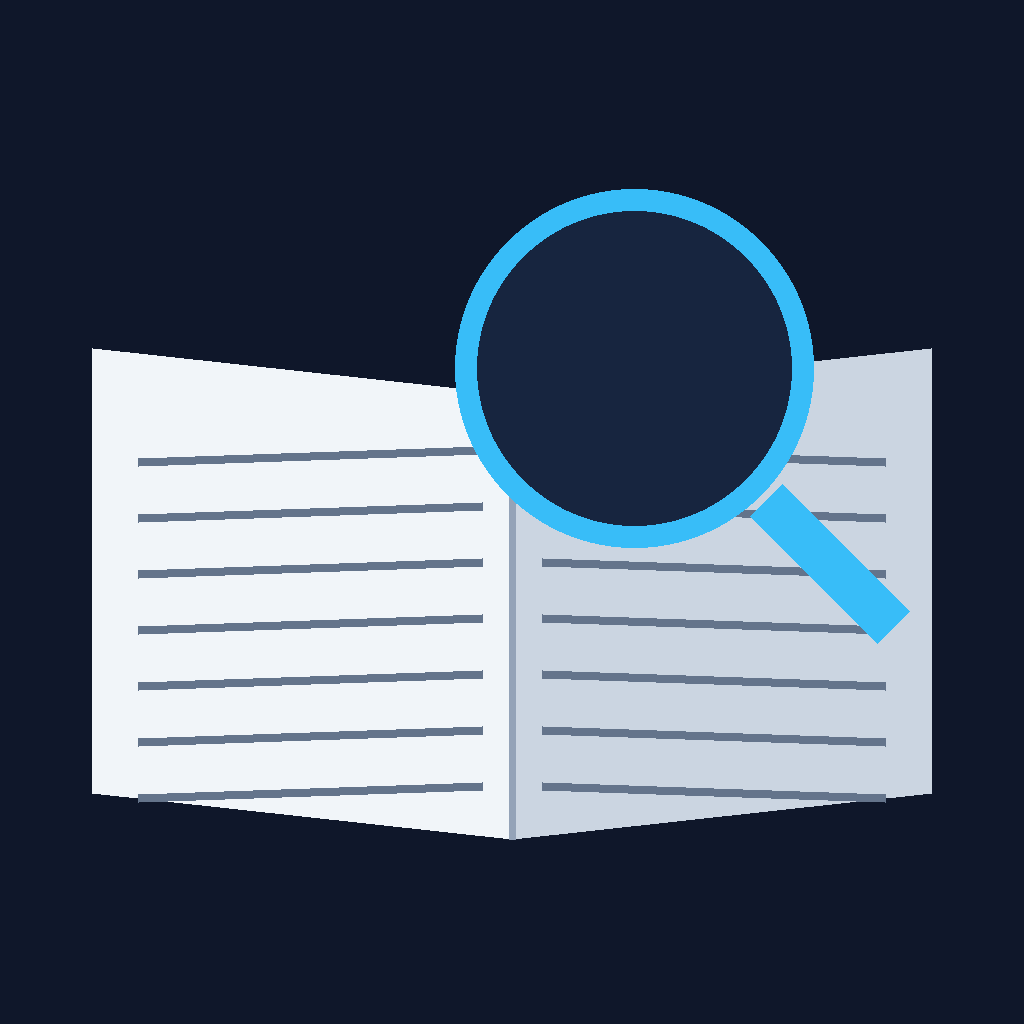
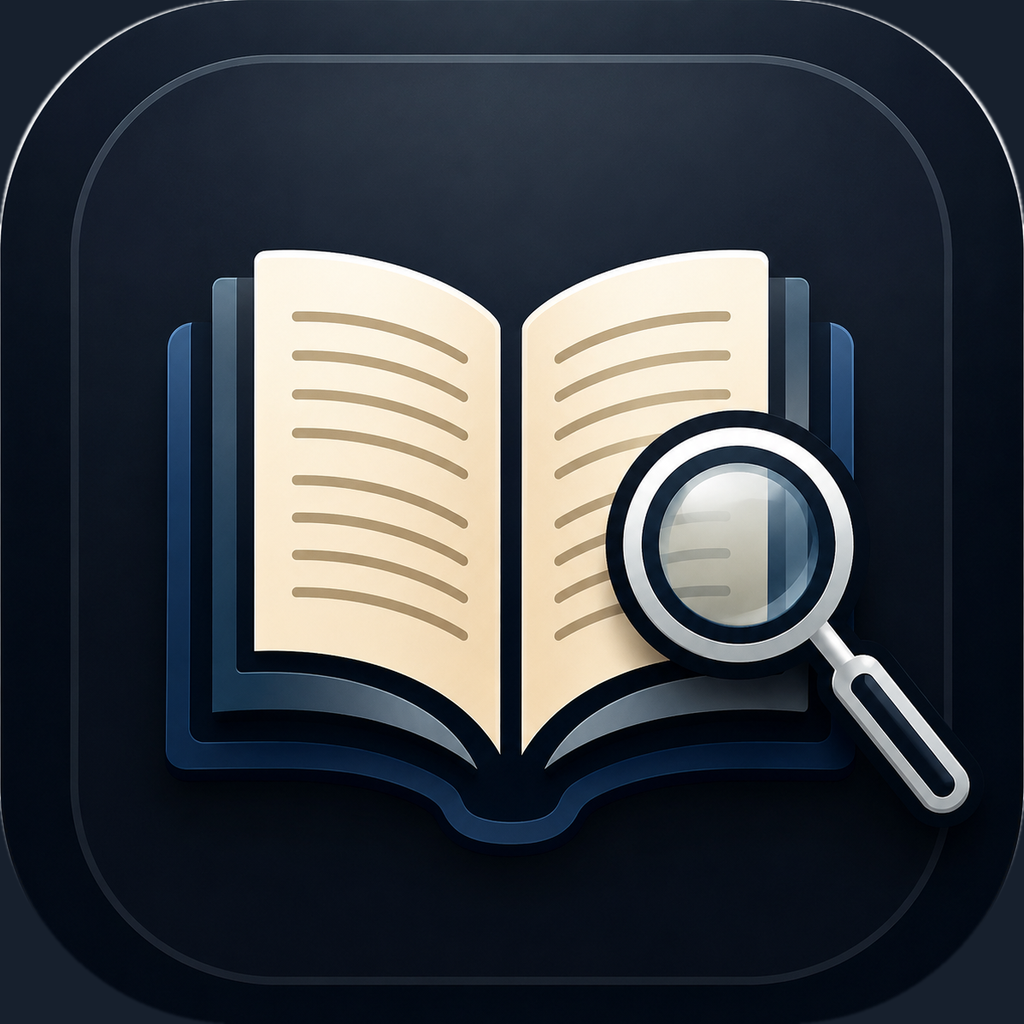
digital-shosai: アイコンをオーナー支給の画像に差し替え、1.0.1/build2 を Archive
- icon-src/source_2026-08-27.png（原本1254×1254）を追加
- make_icon.py を「図案を描く」→「支給画像を整える」に書き換え。
  支給画像は白背景に角丸アイコンが乗った形で、そのまま渡すと iOS の
  角丸マスクで角が白く欠ける。本体を切り出し→1024へ→角の外を地色で塗る
- ios の AppIcon-512@2x.png を差し替え（ios/ は gitignore のため未追跡）
- MARKETING_VERSION 1.0.1 / CURRENT_PROJECT_VERSION 2
- 1.0 が配信中になっていたので CLAUDE.md・TODO.md を修正（photo-remake 1.1.0 も同様）

アップロードと審査提出はオーナーが Organizer で手動。

Claude-Session: https://claude.ai/code/session_01K2nsdTZWvWEin3v4CwFyAz

diff --git a/digital-shosai/icon-src/make_icon.py b/digital-shosai/icon-src/make_icon.py
@@ -3,65 +3,60 @@
 
     ../../agent-platform/.venv/bin/python make_icon.py
 
-App Store のアイコンは**透明を含められない**ので、背景を必ず塗る。
-角丸は iOS が自動で付けるため、こちらでは四角のまま出す。
-図案: 開いた本＋そこから立ち上がる検索の光（本文を検索する道具、という意味）。
-色はアプリ本体の画面と揃える（濃紺 #0f172a ／ 空色 #38bdf8）。
+2026-08-27 にオーナー支給の画像（`source_2026-08-27.png`）へ差し替えた。
+それ以前は PIL で図案を描いていた（開いた本＋空色の虫めがね）。旧版のコードは
+git 履歴にある（`git log -p icon-src/make_icon.py`）。
+
+支給画像の扱い（ここを外すとホーム画面で角が白く欠ける）
+----------------------------------------------------------
+支給画像は **白背景の上に角丸の正方形アイコンが乗った状態**（1254×1254・周囲に白い余白）。
+iOS は自分で角丸マスクを掛けるので、**アイコンは角まで塗った四角**で渡さなければならない。
+そのため次の順で整える。
+
+1. 角丸正方形の本体だけを切り出す（白余白と落ち影を落とす）
+2. 1024×1024 に縮める
+3. **角丸の外側（＝白が残る部分）をアイコンの地色で塗り潰す**
+   iOS のマスク半径（1024 なら約 229px）よりわずかに大きい半径で塗るので、
+   マスク後に地色が見えるのは輪郭のごく細い部分だけ
+
+App Store のアイコンは**透明を含められない**ので、必ず RGB（アルファ無し）で保存する。
 """
-from PIL import Image, ImageDraw
+from PIL import Image, ImageDraw, ImageFilter
+import numpy as np
 
+SRC = "source_2026-08-27.png"
 S = 1024
-BG = (15, 23, 42)        # slate-900：本体画面と同じ濃紺
-PAGE = (241, 245, 249)   # slate-100：紙
-PAGE_SHADE = (203, 213, 225)
-ACCENT = (56, 189, 248)  # sky-400：検索・アクセント
-LINE = (100, 116, 139)   # slate-500：本文の行
+CORNER_RADIUS = 239   # 支給画像の角丸を 1024 に換算した値（iOS の約229より少し大きい）
 
-img = Image.new("RGB", (S, S), BG)
-d = ImageDraw.Draw(img)
+img = Image.open(SRC).convert("RGB")
 
-# 開いた本（左右のページ）。中央でわずかに山を作る
-# 余白を詰めて中央に大きく置く（iOSのアイコンは画面いっぱいに使うのが定石）
-cx, top, bottom = S // 2, int(S * 0.34), int(S * 0.82)
-left, right = int(S * 0.09), int(S * 0.91)
-spine_lift = int(S * 0.045)
+# --- 1. 角丸正方形の本体だけを切り出す -------------------------------------
+# 白でない（＝暗い）画素が縦横に長く連なる範囲を本体とみなす。
+# しきい値の 600 は「1254px の半分近く連なっていれば本体の辺」という意味で、
+# 落ち影のような薄く短い帯を拾わないために置いている。
+arr = np.asarray(img).astype(int)
+dark = arr.mean(axis=2) < 200
+cols = np.where(dark.sum(axis=0) > 600)[0]
+rows = np.where(dark.sum(axis=1) > 600)[0]
+x0, x1 = int(cols.min()), int(cols.max())
+y0, y1 = int(rows.min()), int(rows.max())
+# 落ち影のぶん縦横がわずかにずれるので、短い方の辺に合わせて正方形にする
+side = min(x1 - x0 + 1, y1 - y0 + 1)
+body = img.crop((x0, y0, x0 + side, y0 + side)).resize((S, S), Image.LANCZOS)
 
-for sign, x_out in ((-1, left), (1, right)):
-    d.polygon(
-        [
-            (cx, top + spine_lift),
-            (x_out, top),
-            (x_out, bottom - spine_lift),
-            (cx, bottom),
-        ],
-        fill=PAGE if sign < 0 else PAGE_SHADE,
-    )
+# --- 2. 角の外側をアイコンの地色で塗る --------------------------------------
+# 地色は「辺の内側 40px の帯」の中央値（濃紺）。角の白は帯に入らないので混ざらない。
+b = np.asarray(body).astype(int)
+band = np.concatenate([b[40:80, :, :].reshape(-1, 3), b[-80:-40, :, :].reshape(-1, 3)])
+bg = tuple(int(v) for v in np.median(band, axis=0))
 
-# 本文の行（左ページに数本、右ページに数本）
-for i in range(7):
-    y = top + spine_lift + int(S * 0.055) * (i + 1)
-    d.line([(left + int(S * 0.045), y + int(S * 0.012)), (cx - int(S * 0.03), y)], fill=LINE, width=9)
-    d.line([(cx + int(S * 0.03), y), (right - int(S * 0.045), y + int(S * 0.012))], fill=LINE, width=9)
+mask = Image.new("L", (S, S), 0)
+ImageDraw.Draw(mask).rounded_rectangle([0, 0, S - 1, S - 1], radius=CORNER_RADIUS, fill=255)
+mask = mask.filter(ImageFilter.GaussianBlur(1.2))   # 角のジャギを消す
+icon = Image.composite(body, Image.new("RGB", (S, S), bg), mask)
 
-# 綴じ目
-d.line([(cx, top + spine_lift), (cx, bottom)], fill=(148, 163, 184), width=7)
-
-# 検索の光（虫めがね）を本の上に重ねる
-r = int(S * 0.175)
-gx, gy = int(S * 0.62), int(S * 0.36)
-d.ellipse([gx - r, gy - r, gx + r, gy + r], outline=ACCENT, width=int(S * 0.035))
-d.line(
-    [(gx + int(r * 0.74), gy + int(r * 0.74)), (gx + int(r * 1.45), gy + int(r * 1.45))],
-    fill=ACCENT,
-    width=int(S * 0.045),
-)
-# 虫めがねの中だけ本文を透かす（ガラスの内側を少し明るくする）
-d.ellipse([gx - r + 22, gy - r + 22, gx + r - 22, gy + r - 22], fill=(23, 37, 63))
-
-img.save("icon_1024.png")
-
-# iOS 用の各サイズ（Xcode は 1024 だけでも良いが、確認用に主要サイズも出す）
+icon.save("icon_1024.png")
 for size in (180, 152, 120, 76, 60):
-    img.resize((size, size), Image.LANCZOS).save(f"icon_{size}.png")
+    icon.resize((size, size), Image.LANCZOS).save(f"icon_{size}.png")
 
-print("icon_1024.png ほかを書き出した")
+print(f"icon_1024.png ほかを書き出した（地色 {bg} ・切り出し {side}px 四方）")

diff --git a/TODO.md b/TODO.md
@@ -1453,7 +1453,7 @@
 
 | アプリ | 担当PC | いまの状態 / 次にやること | 最終更新 |
 |---|---|---|---|
-| photo-remake | **メイン** | **フォトリメイク（iOS）1.1.0 / build 4 の提出待ち。実装はサブPCで完了・push済み。** 図形注釈を新設し矢印もその中へ統合（全13種＝矢印/四角/角丸/丸/三角/ひし形/五角形/六角形/星/ハート/吹き出し/十字/バツ）。塗りの色と枠線の色は別々に指定でき、それぞれ「なし」にできる。「種類」タブで矢印⇄図形を入れ替え可（中点・長さ・向きを引き継ぎ Undo 可）。上部「写真」ボタンは編集内容があるときだけ確認ダイアログ。Debug/Release ともビルド通過、シミュレータで画面と書き出しPNGを目視確認済み（**実機は未確認**）。配信中は 1.0.2/build3・審査中なし（2026-08-25 API 確認）。**メインPCでやること＝実機で触る→Archive→提出の3つだけ。手順は `photo-remake/RELEASE.md`**（新機能の文案も入れてある）。※`xcodegen generate` は実行しない（Signing の Team 選択が消える） | 2026-08-25 |
+| photo-remake | **メイン** | **2026-08-27: 1.1.0 / build 4 は審査を通って配信中**（`appstore_api.py --review` で実測。下の「提出待ち」は解消済み。残るのは実機で触ること）。**フォトリメイク（iOS）1.1.0 / build 4 の提出待ち。実装はサブPCで完了・push済み。** 図形注釈を新設し矢印もその中へ統合（全13種＝矢印/四角/角丸/丸/三角/ひし形/五角形/六角形/星/ハート/吹き出し/十字/バツ）。塗りの色と枠線の色は別々に指定でき、それぞれ「なし」にできる。「種類」タブで矢印⇄図形を入れ替え可（中点・長さ・向きを引き継ぎ Undo 可）。上部「写真」ボタンは編集内容があるときだけ確認ダイアログ。Debug/Release ともビルド通過、シミュレータで画面と書き出しPNGを目視確認済み（**実機は未確認**）。配信中は 1.0.2/build3・審査中なし（2026-08-25 API 確認）。**メインPCでやること＝実機で触る→Archive→提出の3つだけ。手順は `photo-remake/RELEASE.md`**（新機能の文案も入れてある）。※`xcodegen generate` は実行しない（Signing の Team 選択が消える） | 2026-08-25 |
 | onepiece-dex | サブ | **ワンピースカード図鑑（新規・8537・127.0.0.1）**。**2026-08-23: 立ち上げから動作確認まで完了。** 公式サイト（onepiece-cardgame.com）1本で カード4,962枚／62シリーズ／画像100%（1.2GB）。`check_dex.py` の点検は全項目0件。画面は **拡張パック23件／構築デッキ37件／その他2件**に分けた4タブ（さがす・拡張パック・構築デッキ/その他・リーダー）。パッケージ画像・発売日・価格は公式の商品ラインナップ156件から。`./va.sh` で目視・Consoleエラー0件まで確認済み。**スーパーパラレル系のレアリティ51枚を追加済み**（スーパーパラレル44/レッド3/海賊団2/ゴールド1/リーダー1）。公式が区分を持たないので tier-one-onepiece.jp の一覧＋画像照合で補完（`data/super_parallel.json`）。OP-18の2枚は公式カードリスト未掲載のため未反映。**相場は未着手**（`dex.price` 列は空で用意済み。マイカのIDはゲーム横断で全ID巡回が要る）。**launchd未登録**（サブPCは都度起動）。画像の「SAMPLE」透かしは公式・マイカとも入っており消せない。**2026-08-24(メイン): PSAカード管理(8527)の中からも開けるようにした**（実体は移していない・8537 単独起動もそのまま。`album_ui` 差し込み口＋`card_no_label()`＋session_stateを `op_` で名前空間化）。**同日: メインPCでスーパーパラレル51枚が丸ごと抜けていたのを復旧**（原因は `setup.sh` が画像取得より前に `fill_super_parallel.py` を置いていて照合が全外れ→0件で正常終了。工程順を直し件数チェックを追加。加えて `@st.cache_data` の鍵が `_stamp` で効かず再起動まで古い結果が出ていたのも修正）。**常駐はしない**（常設は PSA管理だけ） | 2026-08-24 |
 | pokecard-dex | サブ | **2026-08-25: 「🖨 並べる」を新設＝選んだ4枚をA4 1ページのPDFにする**（`カードモデル.docx` の手作業を置き換え。カード 72.45×101.20mm＝実物の1.15倍・4枚とも同一・カード間4mm。実装は `card_sheet.py`。**PSA管理(8527)の中からも動く**ことを実機で確認）。**ワンピ図鑑(8537)にも同じものを付けられるが未実施**。画像100%（31,520枚）。内訳に推定14枚・参考画像4枚・透かし2枚あり。次はそれらの実物差し替え。**2026-08-19: PSAカード管理(8527)の中からも開けるようにした（実体は移していない）**。**2026-08-24: 常駐(8531)を外した**（オーナー判断＝常設は PSA管理だけ。`bootout`＋`disable`済み・8531が止まっていてもPSAの中から使える）。あわせて `@st.cache_data` の鍵が効いていなかったのを修正（引数名 `_stamp`→`stamp`。アンダースコア始まりはハッシュから外れる） | 2026-08-25 |
 | psa-collection | メイン | **PSAカード管理**（旧「PSA保有カード管理」・8527）。**2026-08-19: ポケモンカード図鑑をオプションとして中から開けるようにし、アルバムに「⭐ 欲しいカード」を入れられるようにした**（バインダーは保有カードと欲しいカードを上下2枠に分離）。あわせてグレード絞り込みを削除・セット/年を「さらに絞り込む」へ格納・タイトルの絵文字を削除。**2026-08-24: ワンピースカード図鑑も中から開けるようにし、図鑑を1本決め打ちから登録制（`DEXES`）に変えた**（目印はポケカ `dex:` のまま・ワンピ `opdex:`。実機で検証し albums.json は検証前と同一に復元）。**同日: 常設はこのアプリ(8527)だけにし、図鑑2本の常駐は外した**（8531 は `bootout`＋`disable`。図鑑は止まっていても中から使える）。次は「欲しいカード」の集計/書き出しが要るかの判断 | 2026-08-24 |
@@ -1461,7 +1461,7 @@
 | agent-platform | サブ | **完成扱いへ移行（2026-08-17）**: launchd 登録・0.0.0.0・社内LAN共有（8532）。残るのは作り込み（出来た .pptx 11枚の見栄え目視確認／字幕焼き込み／投稿API）で、通し実行はできる | 2026-08-17 |
 | ai-tools-base | サブ | **AIツールベース**（https://ai-tools-base.vercel.app）。**2026-08-25（サブPC）: 11本目「3枚目から必ず失敗する」を3媒体とも公開**（本体 /works/mobile-photo-upload ／ Zenn `ios-safari-vercel-upload-413` ／ note https://note.com/shinsei99/n/nc4ce3a25341d ）。`links` 追記 → `npx vercel --prod --scope brain-dump` まで実施済み・転載⚠は0件。**次は12本目の題材選び**（`drafts/NETA.md` の在庫66本から、F章以外を選ぶ）。※**Zenn は前回公開から24時間空けないと黙って弾かれる**（今回1度踏んだ） | 2026-08-25 |
 | scrapmemo-petapeta | メイン | **2026-08-19: 保存容量の問題を根本解決し、1.0.4/build8 を審査へ提出済み。** 画像だけ IndexedDB へ移した（localStorage 5,100KB は WebKit固定／IndexedDB quota 9,830MB）。旧データは起動時に自動移行。実測で**写真30枚・77.3MB でも保持**（以前は1枚で上限）。`save()` の握りつぶしも解消し、孤児画像の掃除を追加。すべてXcodeシミュレータで実測確認済み。**審査は通過し 1.0.4/build8 が配信中**（2026-08-23 に API で確認、2026-08-24 に再確認。CLAUDE.md 反映済み）。**このアプリの残タスクは無し。** リリースノート文案は `RELEASE_NOTES.md` | 2026-08-24 |
-| digital-shosai | メイン | **2026-08-19: App Store へ審査提出済み（1.0.0/build1・`com.shinsei.shosai`・iPhone/iPad）。** Capacitor化→シミュレータで取り込み→本棚→読書→紙面→検索を通し確認→Archive→提出まで実施。**青空文庫の著作権切れ4作品を同梱**し初回起動で自動的に書斎へ入る（4冊352ページ→索引679KB）。読書画面の枠とボタンを固定、safe-area・入力欄16px未満の自動拡大によるズレも解消。スクショは3サイズ（6.9/6.5/12.9インチ）、サポート・プライバシーページは gh-pages `digital-shosai-support/` に公開。**2026-08-24 に API で審査状況を確認 → まだ `WAITING_FOR_REVIEW`（審査待ち・提出から5日）。ビルドは VALID で受理済み・こちらの作業は無く待つだけ。** **次は ①審査結果を待つ（`python3 appstore_api.py --review com.shinsei.shosai`） ②実機で1度通す**（著作権欄は `SHINSEI PROPERTY MANAGEMENT.K.K.` が既定で決着）。手順は `digital-shosai/HANDOFF-APPSTORE.md` | 2026-08-24 |
+| digital-shosai | **メイン** | **2026-08-27: 1.0 は審査を通って配信中**（API で実測。8/24時点の「審査待ち」から変わっていた）。**同日、アイコンをオーナー支給の画像に差し替え、1.0.1 / build 2 を Archive まで済ませた**（`~/Library/Developer/Xcode/Archives/2026-08-27/デジタル書斎 2026-08-27 1.0.1-build2.xcarchive`・22MB。中身が 1.0.1/build2 で iPhone/iPad とも新アイコンになっていることを確認済み）。支給画像は白背景に角丸アイコンが乗った形で**そのまま使うとホーム画面で角が白く欠ける**ため、`icon-src/make_icon.py` を「切り出す→1024へ→角の外を地色で塗る」処理に書き換えた（原本 `icon-src/source_2026-08-27.png` も git に入れた）。**★次はオーナーが手で: Organizer → Distribute App → App Store Connect → Upload → ASC で 1.0.1 を審査へ提出**（新機能欄は「アプリアイコンを新しくしました。」）。残る積み残しは**実機（iPhone）で1度通すこと**。手順は `digital-shosai/HANDOFF-APPSTORE.md` 冒頭 | 2026-08-27 |
 | keyline | メイン | **KeyLine（NFC鍵・備品貸出管理）＋ KeyTag（iOSアプリ）。** サーバーは 8534・社内LAN限定・テスト99件成功。**2026-08-18: KeyTag を App Store へ提出**（1.0.0/build2・掲載名 KeyTagNFC・サポートページ公開済み。**API上の提出日は 2026-08-17**）。**2026-08-25 レビュー → Guideline 2.1 - Information Needed で差し戻し**（レビュー機は **iPad Air 11-inch M3＝NFC非搭載**。**NFC機能のデモ動画**を App Review Information に載せて返信せよ、という要求。**リジェクトではないので build の上げ直しは不要**。Submission ID `a47e6a37-ee0d-48dc-8a35-2559cb1b976b`）。**次は ①NFCタグ（NTAG213）を入手 ②iPhone実機で撮影＝そのまま RELEASE.md の実機チェックリスト消化になる（NFC機能は一度も実機で動かしていない） ③YouTube限定公開にアップ→Notesにリンク→ASCで返信（★外部への操作なのでオーナー判断）**。撮影台本と詳細は keyline/SESSION_LOG.md 冒頭、配信手順は keyline/keytag/RELEASE.md | 2026-08-26 |
 | chatwork-ai-manager | メイン | Chatwork/LINE常駐AIエージェント（社内RAG・TODO/案件・Web/国交省API）。**常駐4サービスはメインPCで稼働中**（サブPCは常駐0本。worker・ngrokは1台のみ・同時起動禁止）。**2026-08-18: 定時TODO確認(13時/18時/翌10時等)を担当者ごとにグループ化＋TO付与する形式に修正（TASK-20260818-002・worker再起動済みで本番反映済み）。同一担当者でも一部TODOのaccount_id未解決だと別グループ・TO欠落になる不具合を修正＋名前解決の全ルーム横断フォールバックを追加（TASK-20260818-003・コミット済み・オーナー承認を得てworker再起動済み＝本番反映済み。ただし本日18時分は再起動前に実行済みのため旧仕様のまま。次回13時/18時/翌10時から新仕様）。添付Excel等の読込＋LINEからの常駐再起動も追加（TASK-20260818系）**。**2026-08-19: LINEに「処理中にエラーが発生しました: ClaudeError」が3回返った障害を調査し、原因を確定（claude CLIのOAuthトークン更新が約50分ハング＝アプリのバグではない。Keychainのmdat 09:43:03と復旧時刻が一致・実作業は18秒で残り159秒はセッション開始前に消えていた）。自然復旧済み・コードは未変更。切り分け手順は README「処理中にエラーが発生しました…」節に記載。障害中の依頼は黙って消えるので取りこぼし確認が要る。同日 TASK-20260819-001（定時TODO/週次を10:00→10:30。DB設定を実行時に読むので再起動不要・反映済み）と TASK-20260819-002（QAが未実行のTODO更新を「反映しました」と嘘をつく不具合の修正）が完了・コミット済み** | 2026-08-19 |
 | ↑ chatwork-ai-manager LINE障害 | **メイン** | **2026-08-20（サブPCで対応）: 「LINEに送っても反応がない」の原因は LINEプッシュの無料枠切れ**（コミュニケーションプラン200通/月を200/200消費。LINE自身が `You have reached your monthly limit.` を返すことを実測確認）。**Chatwork側・webhook・ngrok・各トークンはすべて正常**。実測ペースは1日約50通・月約1,000通で無料枠では構造的に不足（4日で枯渇）。オーナー判断で**ライトプラン（¥5,000税別/月・5,000通）へ有料化する方針**（プラン変更は人が実行・**未実施**）。再発防止として、`line_client._post()` の失敗握りつぶしを修正・`services/line_alert.py` でChatworkへフォールバック通知・残通数の日次見張り・push呼び出し元のlabel記録 を実装しコミット済み。**★メインPCで `git pull` → worker と line_webhook の両方を再起動しないと本番に効かない（未実施）**。**メインPCでの反映手順**: `cd ~/chatwork-ai-manager && git pull` → `launchctl kickstart -k gui/$(id -u)/com.shinsei.chatwork-ai-manager-worker` → `launchctl kickstart -k gui/$(id -u)/com.shinsei.chatwork-ai-manager-line`（`services/line_client.py` は worker と line_webhook の**両方**が読むので片方だけでは不足）。調べた事実・確認コマンドは **`chatwork-ai-manager/README.md` の「LINEに送っても回答が返らない」節**にある（SESSION_LOG.md と TODO.md は識別子を含むため gitignore＝**メインPCには届かない**） | 2026-08-20 |

diff --git a/digital-shosai/SESSION_LOG.md b/digital-shosai/SESSION_LOG.md
@@ -4,6 +4,47 @@
 
 ---
 
+## 2026-08-27（メインPC）— アイコンを差し替え、1.0.1 / build 2 を Archive まで
+
+### 完了したこと
+
+- **1.0 は審査を通って「配信中」になっていた**（`appstore_api.py --review` で実測）。
+  8/24時点の「審査待ち」から変わっていたので、`CLAUDE.md` と `TODO.md` の記載を直した。
+  ついでに photo-remake も 1.1.0 が配信中になっていたので同じく直した
+- **アイコンをオーナー支給の画像に差し替えた**（開いた本＋銀色の虫めがね・濃紺の地）。
+  原本は `icon-src/source_2026-08-27.png` として git に入れた（1254×1254）
+- `icon-src/make_icon.py` を「図案を描く」から「**支給画像を整える**」形に書き換え。
+  出力は従来どおり `icon_1024/180/152/120/76/60.png`（RGB・アルファ無し）
+- `ios/App/App/Assets.xcassets/AppIcon.appiconset/AppIcon-512@2x.png` を差し替え
+- **`MARKETING_VERSION` 1.0.0 → 1.0.1 ／ `CURRENT_PROJECT_VERSION` 1 → 2**
+  （`./ios-build-guard.sh digital-shosai --bump` ＋ 表示バージョンは手で）
+- `npm run build` → `npx cap sync ios` → **Archive 成功**。Organizer に出るよう
+  `~/Library/Developer/Xcode/Archives/2026-08-27/デジタル書斎 2026-08-27 1.0.1-build2.xcarchive`（22MB）へ配置
+- **Archive の中身を目で確認**: `Info.plist` が 1.0.1 / build 2 / `com.shinsei.shosai`、
+  `AppIcon60x60@2x.png`（iPhone）と `AppIcon76x76@2x~ipad.png`（iPad）が**新しい絵になっている**
+
+### 発生したエラーと解決策
+
+- **支給画像をそのまま使うと、ホーム画面で角が白く欠ける** → 原因: 支給画像は
+  「白背景の上に角丸の正方形アイコンが乗った」状態（周囲に約26pxの白余白）。iOS は自分で
+  角丸マスクを掛けるので、渡す画像は**角まで塗った四角**でなければならない →
+  直し方: `make_icon.py` で ①角丸正方形の本体だけ切り出し（暗い画素が縦横に600px以上連なる範囲）
+  ②1024へ縮小 ③**角丸の外側を地色 `(23,32,45)` で塗り潰す**（半径239px＝iOSの約229pxより少し大きい）。
+  iOSマスクを掛けた状態を画像で並べて目視し、白い縁が出ないことを確認した
+- **Archive 内のアイコンPNGが PIL で開けない**（`broken data stream`） → 原因: Xcode が
+  iOS向けにPNGを最適化する（CgBI形式）ため → 直し方:
+  `xcrun -sdk iphoneos pngcrush -revert-iphone-optimizations` で戻してから見る
+
+### 次回への引き継ぎ事項・未解決の課題
+
+- **★オーナーが手で行う: Xcode の Organizer から Distribute App → App Store Connect → Upload、
+  そのあと App Store Connect で 1.0.1 を審査へ提出**（オーナー判断で提出は手動にした）。
+  「このバージョンの新機能」には「アプリアイコンを新しくしました。」で足りる
+- アップロード後は `python3 appstore_api.py --review com.shinsei.shosai` で状態を見る
+- **実機（iPhone）で1度通すのは依然として未了**
+
+---
+
 ## 2026-08-24（メインPC）— 審査状況を API で確認（変化なし・待ち）
 
 ### 完了したこと

diff --git a/CLAUDE.md b/CLAUDE.md
@@ -254,13 +254,13 @@ lsof -nP -iTCP:<port> -sTCP:LISTEN                                # 待ち受け
 | アプリ名 | フォルダ名 | port | 外部公開 |
 |---|---|---|---|
 | 送付書ジェネレーター（**オーナー個人専用**・差出人4プロファイル／社内には配らない） | soufu-generator | 8518 | — |
-| デジタル書斎 | digital-shosai | 3001 | App Store **審査待ち**（1.0/build1・2026-08-19提出。2026-08-24 に API で確認＝まだ審査に入っていない） |
+| デジタル書斎 | digital-shosai | 3001 | App Store ✅（**1.0 build1 が配信中**・2026-08-27 に API で確認）。**アイコンを差し替えた 1.0.1 build2 を Archive 済み＝オーナーが Organizer から Upload → 提出する段階**（2026-08-27） |
 | ブレイン・ダンプ自動整理 | brain-dump | 3002 | Vercel（brain-dump-sable-one.vercel.app） |
 | スクラップメモ + PetaPeta Clipper | scrapmemo-petapeta + petapeta-extension | — | GitHub Pages / App Store ✅（**1.0.4 build8 が配信中**。2026-08-24 に API で確認。build7は提出せず） |
 | 水泳記録トラッカー | swim-tracker-react | — | GitHub Pages / App Store ✅（**1.0 build1 が配信中**・2026-08-24 に API で確認） |
 | ママカウンター | mom-counter | — | GitHub Pages / App Store ✅（**1.0 build4 が配信中**・2026-08-24 に API で確認。「v1.0.1」は誤記だった） |
 | Mac一斉メール送信 | mail-merge-pro | — | Macアプリ |
-| フォトリメイク | photo-remake | — | iOS App Store ✅（**1.0.2 build3 が配信中**）＋**1.1.0 build4 を 2026-08-26 に提出＝審査待ち**（図形13種。API で `WAITING_FOR_REVIEW` を確認） |
+| フォトリメイク | photo-remake | — | iOS App Store ✅（**1.1.0 build4 が配信中**・2026-08-27 に API で確認。図形13種。8/26提出→審査通過） |
 | 買取DMジェネレーター | kaitori-dm-maker | 8526 | — |
 | PSAカード管理 | psa-collection | 8527 | — |
 | パシャカロ！（撮るだけカロリー記録） | pasha-calo | 3003 | Vercel（pasha-calo.vercel.app） |

diff --git a/digital-shosai/HANDOFF-APPSTORE.md b/digital-shosai/HANDOFF-APPSTORE.md
@@ -8,6 +8,25 @@
 
 ---
 
+## 0. 追記（2026-08-27 メインPC）— **1.0 は配信中。いまは 1.0.1 のアップロード待ち**
+
+- **1.0 / build 1 は審査を通って配信中**（`python3 appstore_api.py --review com.shinsei.shosai`）
+- **アイコンをオーナー支給の画像に差し替え**、**1.0.1 / build 2** で **Archive まで済ませた**
+
+```
+~/Library/Developer/Xcode/Archives/2026-08-27/デジタル書斎 2026-08-27 1.0.1-build2.xcarchive
+```
+
+**残り（オーナーが手で行う）**: Xcode → Window → Organizer → 上のアーカイブを選ぶ →
+Distribute App → App Store Connect → Upload → App Store Connect で 1.0.1 を作って build 2 を選び、
+「このバージョンの新機能」に `アプリアイコンを新しくしました。` と書いて審査へ提出。
+
+**アイコンの作り直し方は `icon-src/make_icon.py` の冒頭に書いた。**
+支給画像は白背景に角丸アイコンが乗った形なので、**そのまま渡すとホーム画面で角が白く欠ける**。
+スクリプトが「本体を切り出す → 1024へ → 角の外を地色で塗る」まで面倒を見る。
+
+---
+
 ## 1. いまの状態（2026-08-19 メインPCで実測）
 
 | | 状態 |
